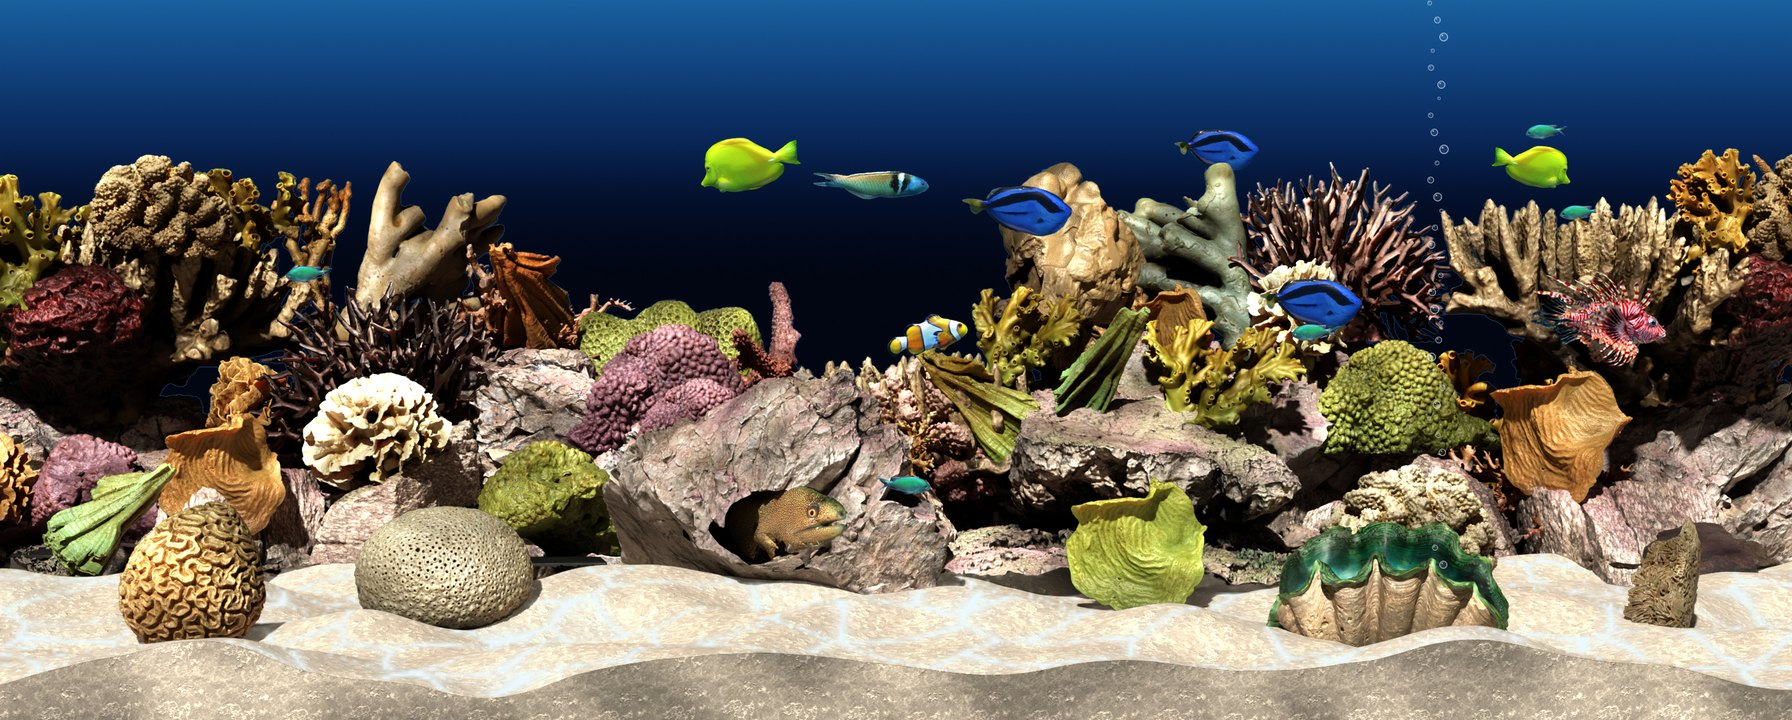
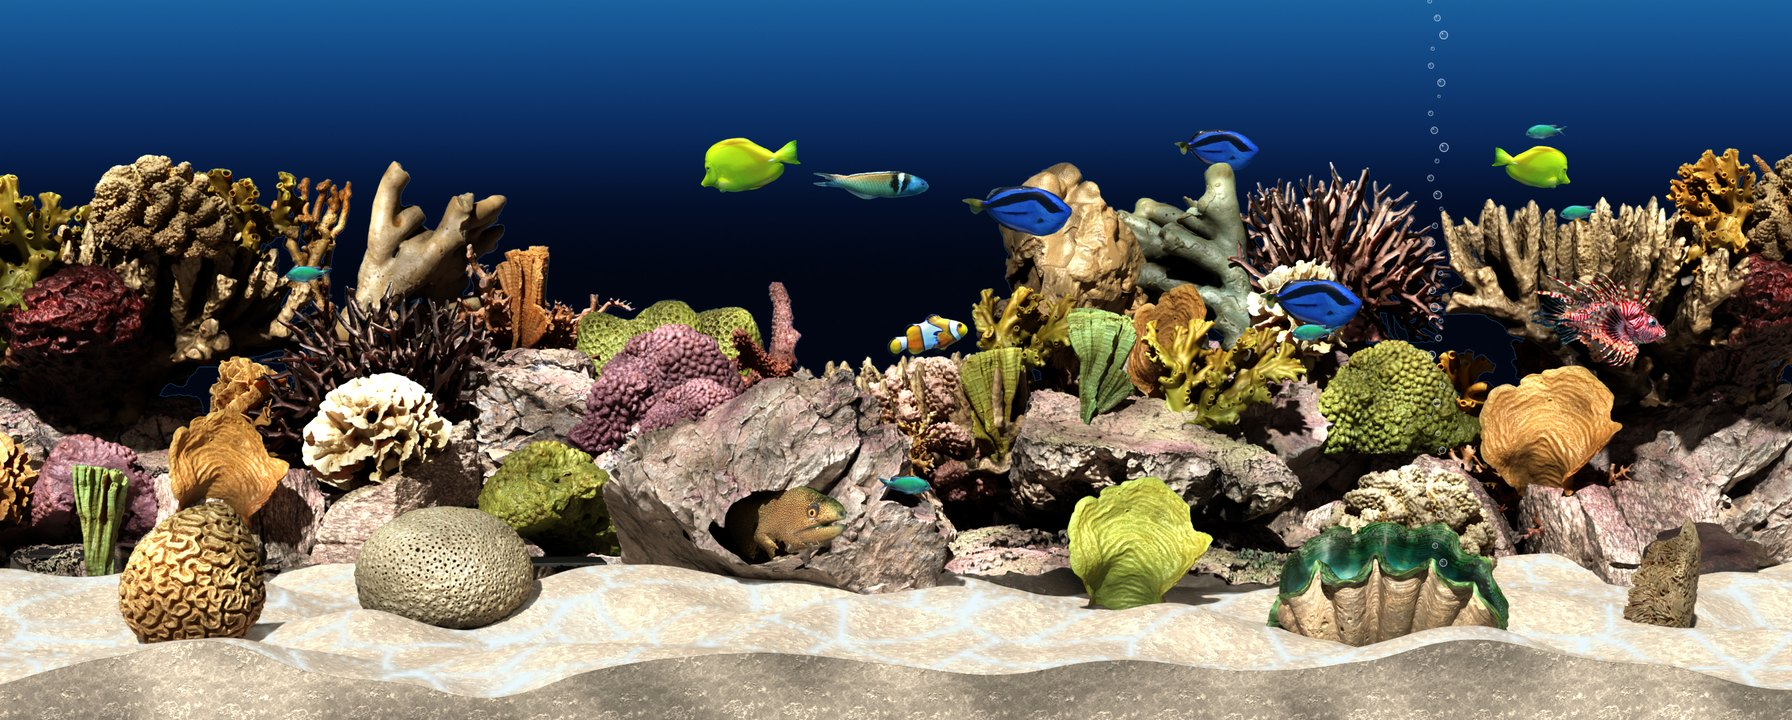
Stand two coral scans the way they grow (1.0.1)
The Lobophyllia wellsi scan is a branch bundle that lay diagonally with
its tips down: it is now stood along its long axis, narrow base down.
The Agaricia lamarcki plate was scanned upside down, its flat base edge
on top: it is turned in its plane so that edge is at the bottom.  The
README screenshots are remade from the new build (11091007).

diff --git a/blender/scanreef.py b/blender/scanreef.py
@@ -230,9 +230,39 @@ def place_rock(name, x, y, height, turn, seed):
     return ob
 
 
+# scans not standing as they grow: ('x', degrees) turns the mesh about x first; 'auto' stands it
+# along its long axis with the wider end (the branch tips) up
+ORIENT = {'agaricia_lamarcki': ('y', 141),      # a plate scanned upside down: turned in its plane, its flat base edge down
+          'lobophyllia_wellsi': 'auto'}         # a branch bundle scanned lying diagonally, tips down
+
+
+def orient(ob, how):
+    import numpy as np
+    from mathutils import Matrix
+    if how == 'auto':
+        n = len(ob.data.vertices)
+        co = np.zeros(n * 3, np.float32)
+        ob.data.vertices.foreach_get('co', co)
+        co = co.reshape(n, 3)
+        c = co - co.mean(axis=0)
+        axis = np.linalg.svd(c, full_matrices=False)[2][0]
+        t = c @ axis
+        lo, hi = np.quantile(t, 0.15), np.quantile(t, 0.85)
+        spread = lambda m: np.linalg.norm(c[m] - np.outer(t[m], axis), axis=1).mean()
+        if spread(t < lo) > spread(t > hi):
+            axis = -axis
+        rot = Vector(axis.tolist()).rotation_difference(Vector((0, 0, 1))).to_matrix().to_4x4()
+    else:
+        rot = Matrix.Rotation(math.radians(how[1]), 4, how[0].upper())
+    ob.data.transform(rot)
+    ob.data.update()
+
+
 def place_coral(spec, seed):
     name, cut, x, y, height, where, tint, turn = spec
     ob = import_scan(name)
+    if name in ORIENT:
+        orient(ob, ORIENT[name])
     cut_base(ob, cut)
     fit(ob, height=height)
     if where == 'gravel':
@@ -917,6 +947,17 @@ def main():
     rake.light_linking.receiver_collection = gc
     rake.light_linking.blocker_collection = gc
     sc = bpy.context.scene
+    if '--whereis' in sys.argv:            # each coral's place in the 2688x1080 picture, then stop
+        from bpy_extras.object_utils import world_to_camera_view
+        bpy.context.view_layer.update()
+        print('CAM', sc.camera.name if sc.camera else None, camob.location, camob.rotation_euler, sc.render.resolution_x, sc.render.resolution_y)
+        for o in sc.objects:
+            if o.name.startswith('coral_'):
+                pts = [world_to_camera_view(sc, sc.camera, o.matrix_world @ Vector(c)) for c in o.bound_box]
+                x0, x1 = min(p.x for p in pts) * 2688, max(p.x for p in pts) * 2688
+                y0, y1 = (1 - max(p.y for p in pts)) * 1080, (1 - min(p.y for p in pts)) * 1080
+                print('WHERE %-32s x %4d-%4d  y %4d-%4d' % (o.name, x0, x1, y0, y1))
+        return
     if '--clamtest' in sys.argv or '--cavetest' in sys.argv:
         common.render_settings(64, transparent=False)
         c = bpy.data.objects['clam'].matrix_world.translation if '--clamtest' in sys.argv else mouth
